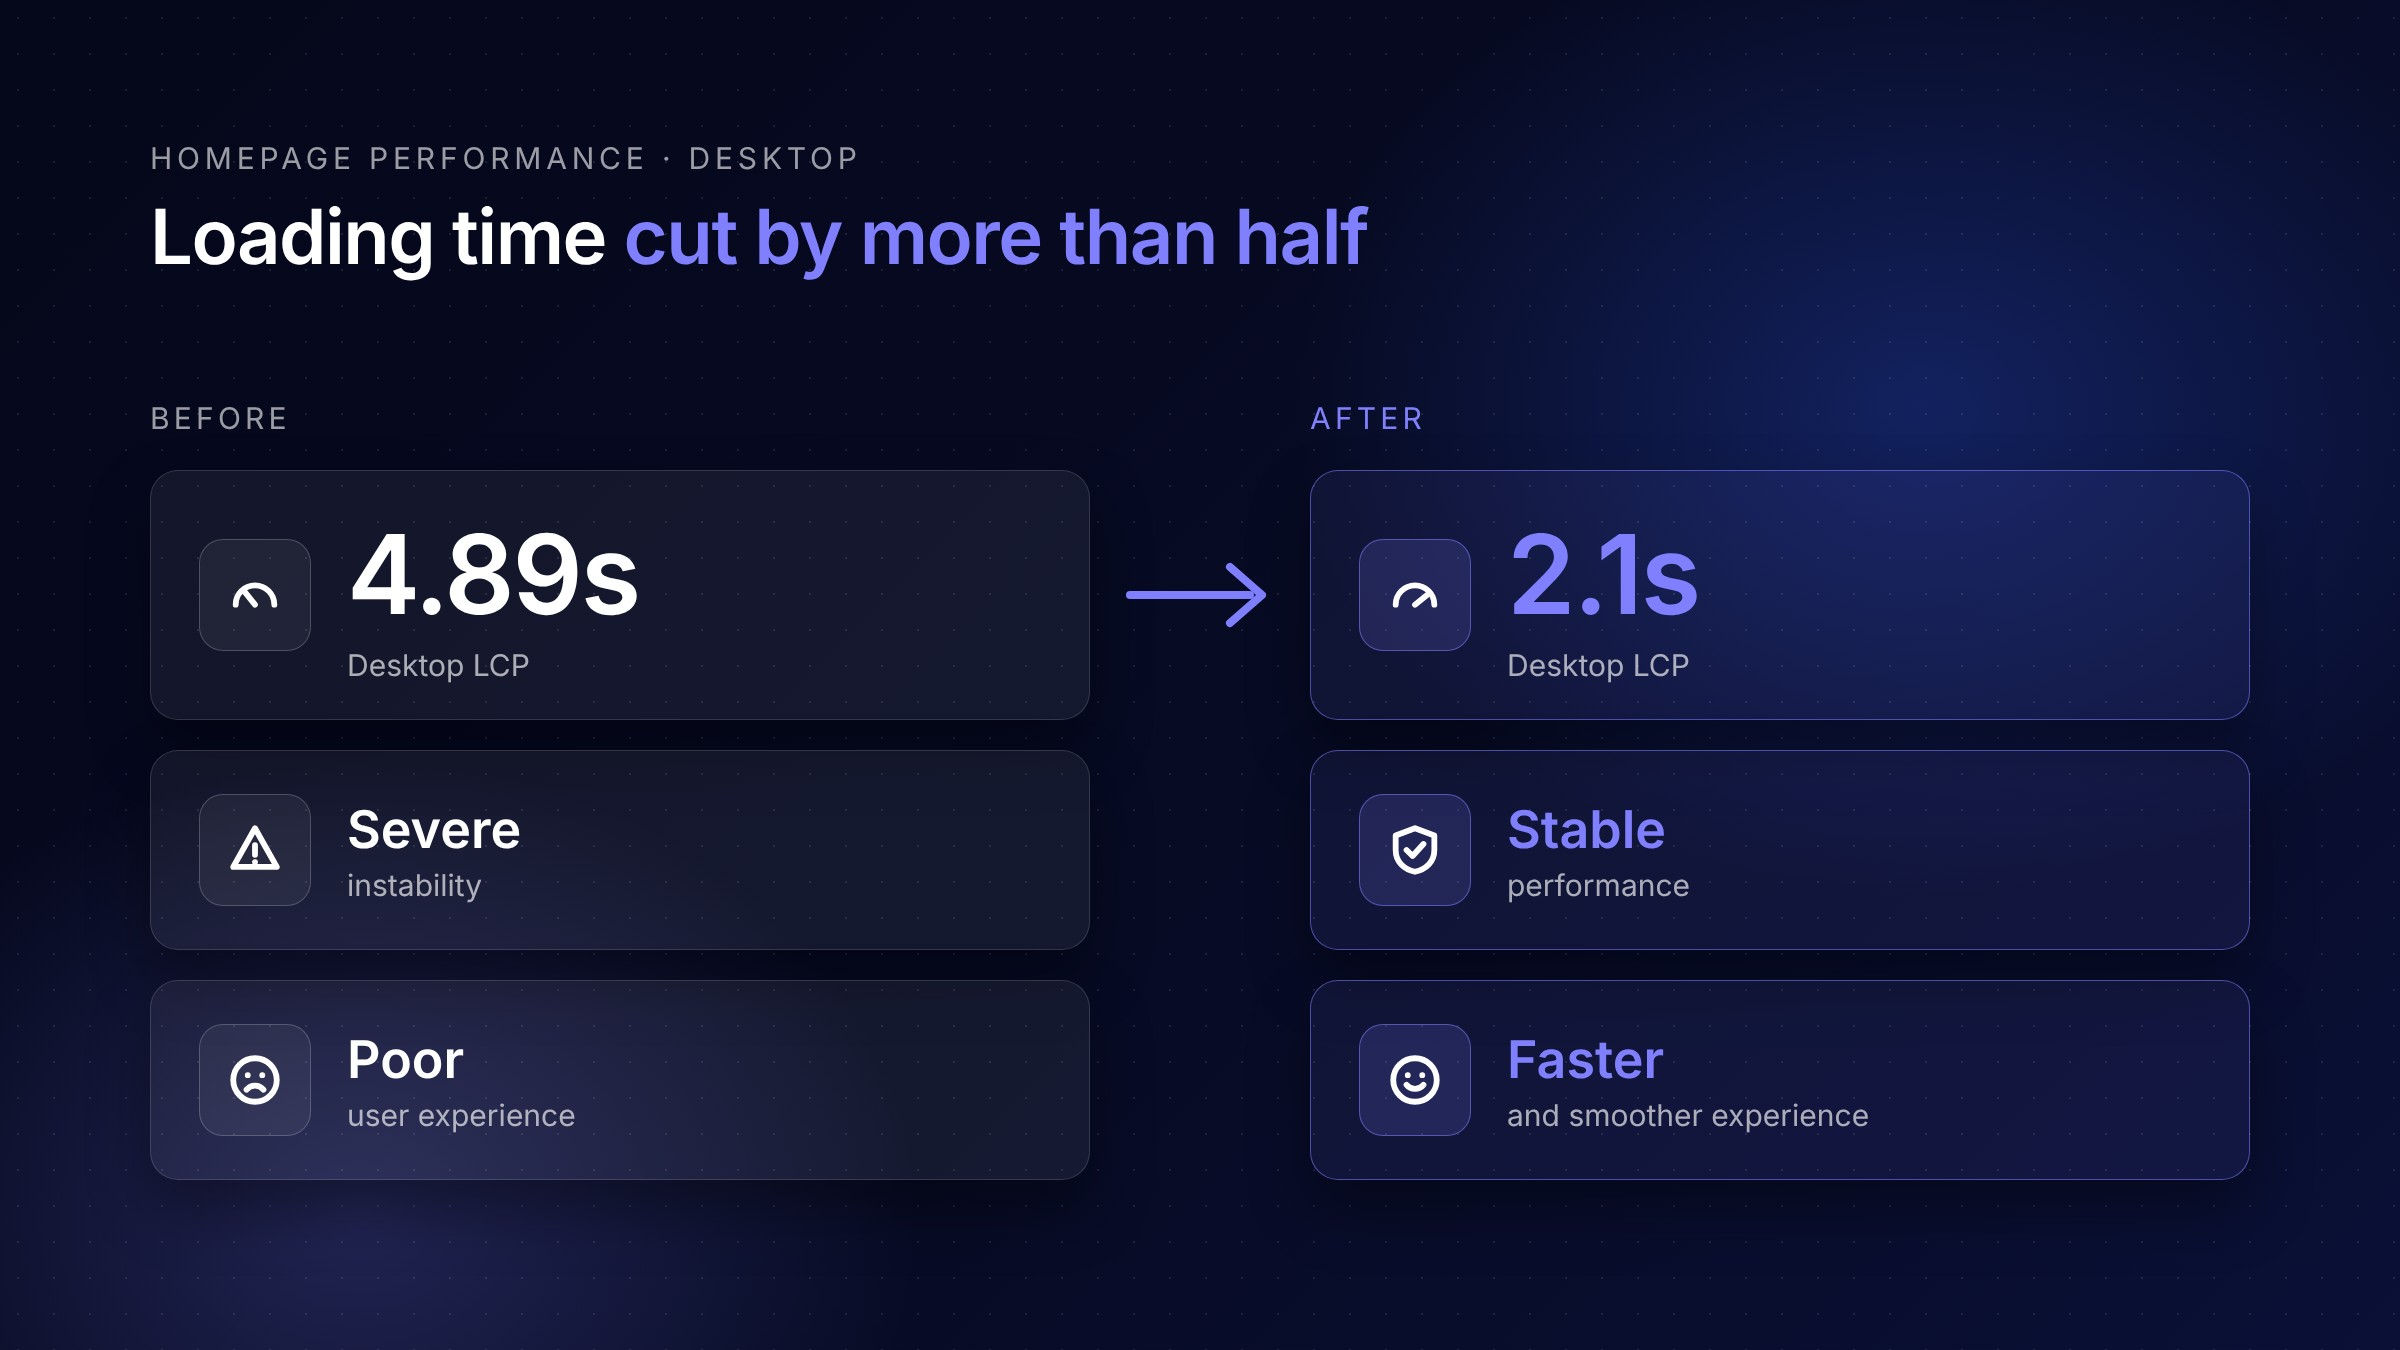
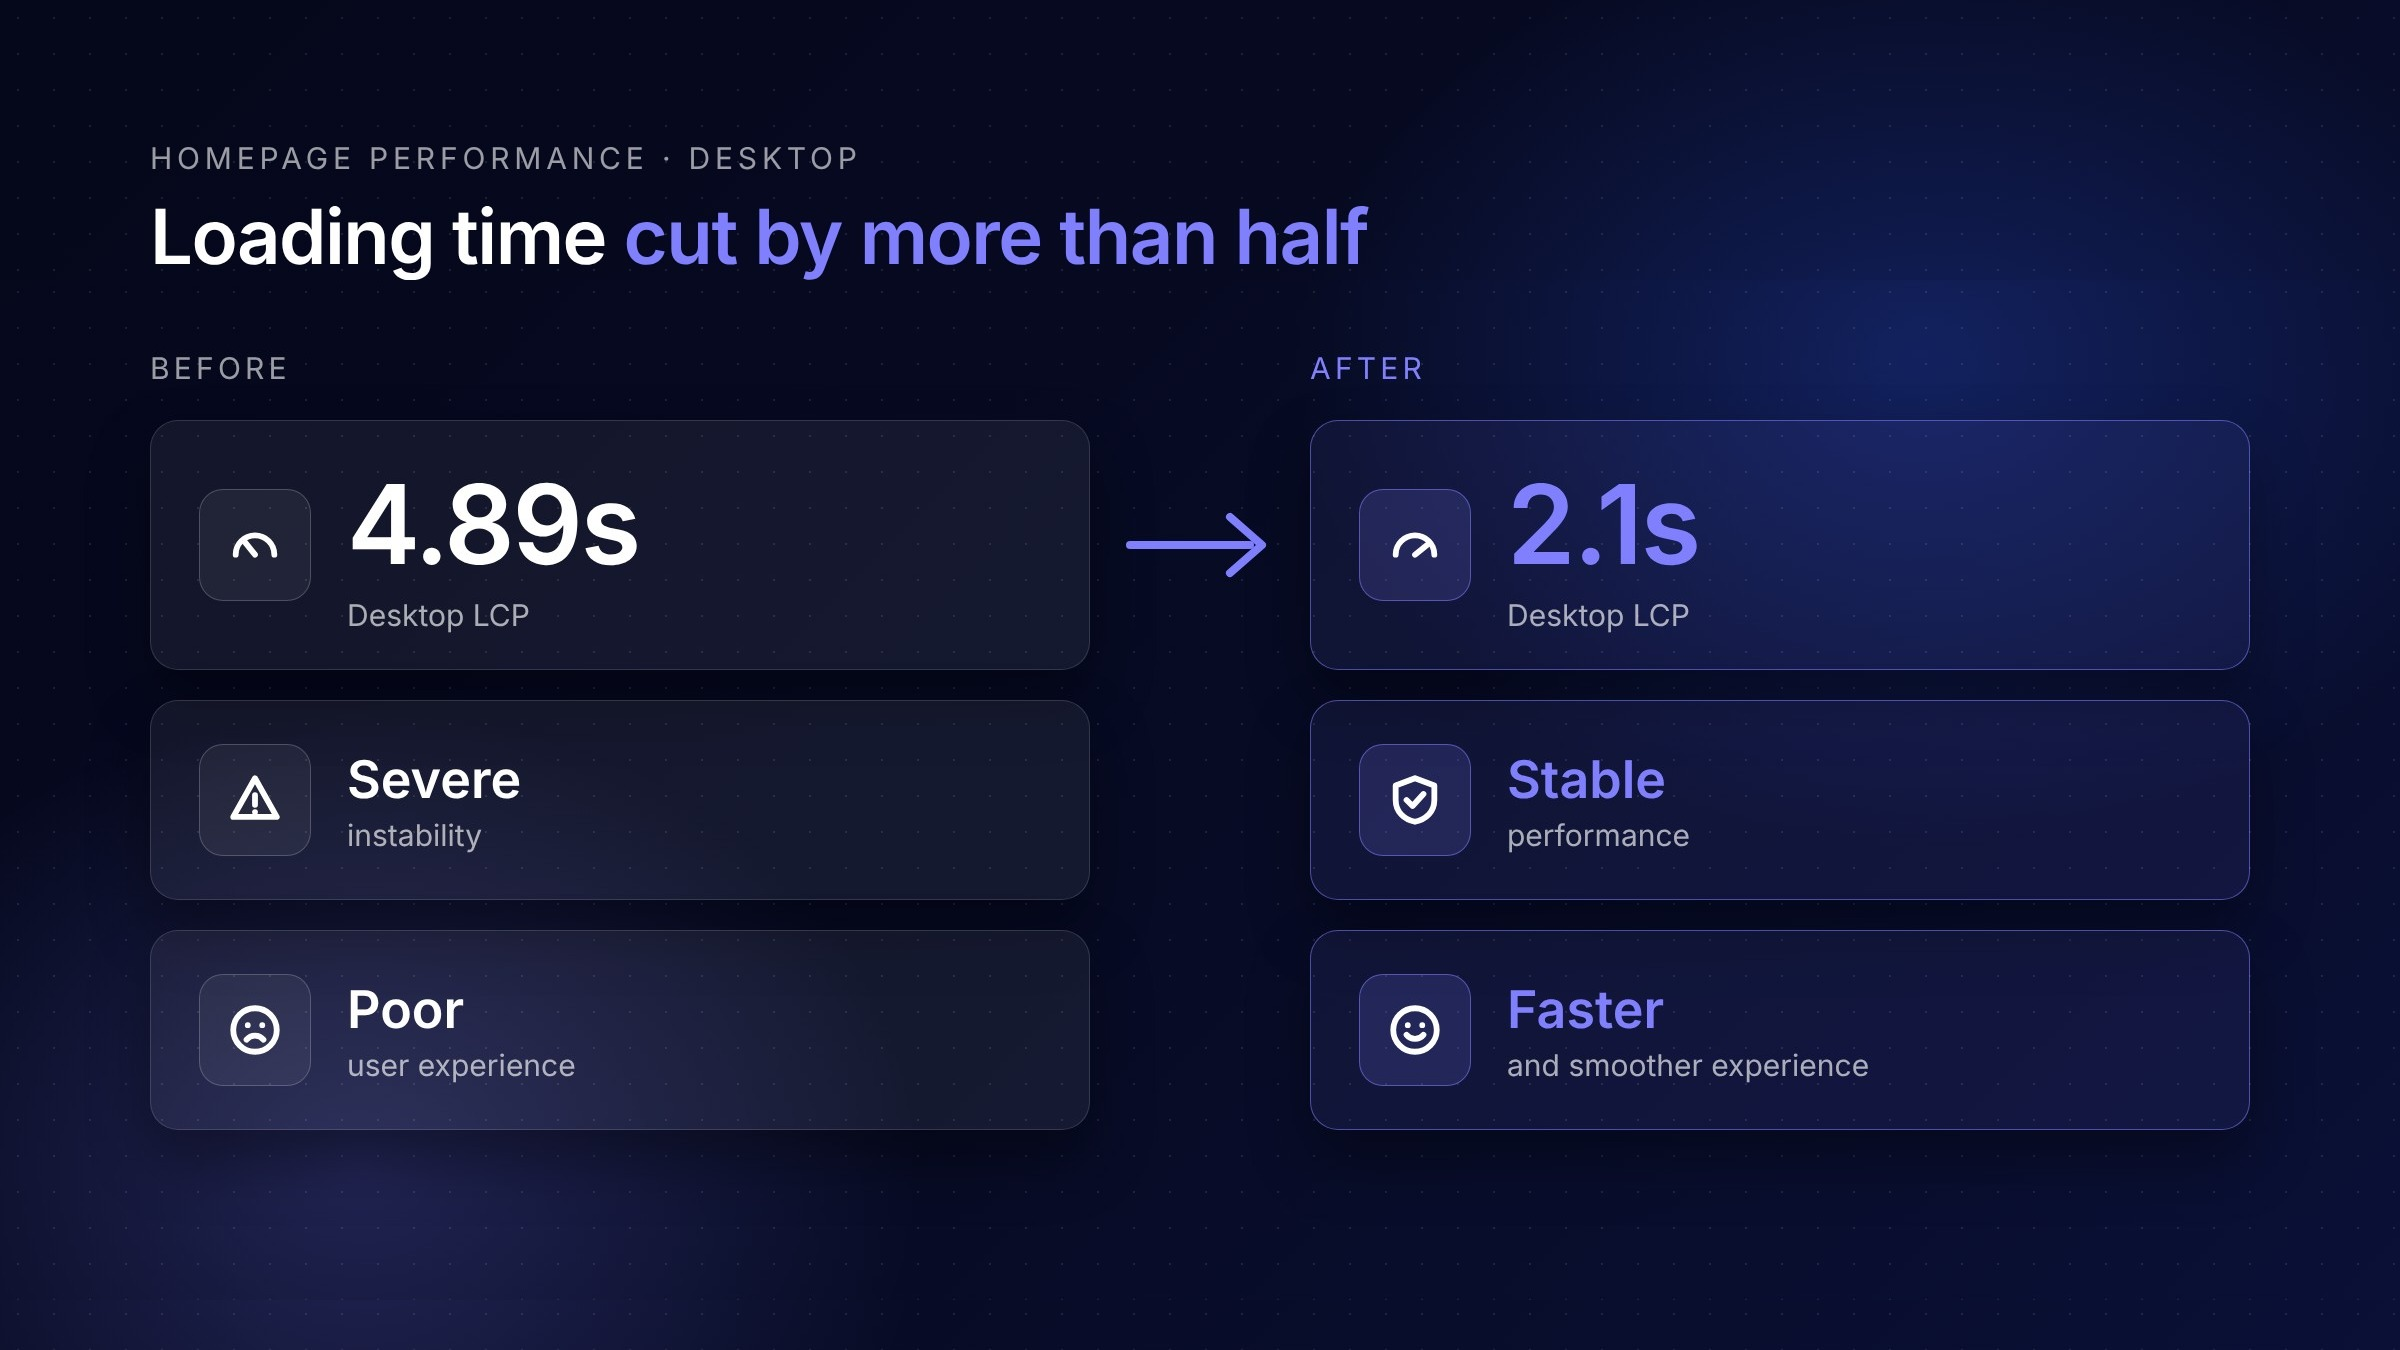
hey

diff --git a/Dremio.html b/Dremio.html
@@ -365,18 +365,6 @@
 											</figcaption>
 										</figure>
 										<!-- End post image -->
-										<br>
-										<!-- Begin post image -->
-										<figure class="tt-blog-post-image">
-											<div class="tt-gallery-image-wrap anim-zoomin">
-											<a href="assets/img/portfolio/single-project/project-8/conversion-optimization-framework.jpg?v=5" class="tt-bpi-link lg-trigger" data-exthumbnail="assets/img/portfolio/single-project/project-8/conversion-optimization-framework.jpg?v=5" data-cursor="View">
-												<img class="tt-lazy" src="assets/img/portfolio/single-project/project-8/conversion-optimization-framework.jpg?v=5" data-src="assets/img/portfolio/single-project/project-8/conversion-optimization-framework.jpg?v=5" alt="Website conversion optimization framework">
-											</a></div>
-											<figcaption class="tt-bpi-caption">
-												Website conversion optimization framework
-											</figcaption>
-										</figure>
-										<!-- End post image -->
 										<br><br>
 										<!-- End post image -->
 									</div> </div>
@@ -612,8 +600,8 @@
 										<!-- Begin post image -->
 										<figure class="tt-blog-post-image">
 											<div class="tt-gallery-image-wrap anim-zoomin">
-											<a href="assets/img/portfolio/single-project/project-8/pricing-insights.jpg?v=4" class="tt-bpi-link lg-trigger" data-exthumbnail="assets/img/portfolio/single-project/project-8/pricing-insights.jpg?v=4" data-cursor="View">
-												<img class="tt-lazy" src="assets/img/portfolio/single-project/project-8/pricing-insights.jpg?v=4" data-src="assets/img/portfolio/single-project/project-8/pricing-insights.jpg?v=4" alt="Pricing journey insights before the redesign">
+											<a href="assets/img/portfolio/single-project/project-8/pricing-insights.jpg?v=5" class="tt-bpi-link lg-trigger" data-exthumbnail="assets/img/portfolio/single-project/project-8/pricing-insights.jpg?v=5" data-cursor="View">
+												<img class="tt-lazy" src="assets/img/portfolio/single-project/project-8/pricing-insights.jpg?v=5" data-src="assets/img/portfolio/single-project/project-8/pricing-insights.jpg?v=5" alt="Pricing journey insights before the redesign">
 											</a></div>
 											<figcaption class="tt-bpi-caption">
 												Pricing journey insights before the redesign
@@ -658,8 +646,8 @@
 										<!-- Begin post image -->
 										<figure class="tt-blog-post-image">
 											<div class="tt-gallery-image-wrap anim-zoomin">
-											<a href="assets/img/portfolio/single-project/project-8/pricing-results.jpg?v=4" class="tt-bpi-link lg-trigger" data-exthumbnail="assets/img/portfolio/single-project/project-8/pricing-results.jpg?v=4" data-cursor="View">
-												<img class="tt-lazy" src="assets/img/portfolio/single-project/project-8/pricing-results.jpg?v=4" data-src="assets/img/portfolio/single-project/project-8/pricing-results.jpg?v=4" alt="Pricing page results">
+											<a href="assets/img/portfolio/single-project/project-8/pricing-results.jpg?v=5" class="tt-bpi-link lg-trigger" data-exthumbnail="assets/img/portfolio/single-project/project-8/pricing-results.jpg?v=5" data-cursor="View">
+												<img class="tt-lazy" src="assets/img/portfolio/single-project/project-8/pricing-results.jpg?v=5" data-src="assets/img/portfolio/single-project/project-8/pricing-results.jpg?v=5" alt="Pricing page results">
 											</a></div>
 											<figcaption class="tt-bpi-caption">
 												Pricing page results
@@ -761,8 +749,8 @@
 										<!-- Begin post image -->
 										<figure class="tt-blog-post-image">
 											<div class="tt-gallery-image-wrap anim-zoomin">
-											<a href="assets/img/portfolio/single-project/project-8/lcp-before-after.jpg?v=5" class="tt-bpi-link lg-trigger" data-exthumbnail="assets/img/portfolio/single-project/project-8/lcp-before-after.jpg?v=5" data-cursor="View">
-												<img class="tt-lazy" src="assets/img/portfolio/single-project/project-8/lcp-before-after.jpg?v=5" data-src="assets/img/portfolio/single-project/project-8/lcp-before-after.jpg?v=5" alt="Desktop LCP before and after">
+											<a href="assets/img/portfolio/single-project/project-8/lcp-before-after.jpg?v=6" class="tt-bpi-link lg-trigger" data-exthumbnail="assets/img/portfolio/single-project/project-8/lcp-before-after.jpg?v=6" data-cursor="View">
+												<img class="tt-lazy" src="assets/img/portfolio/single-project/project-8/lcp-before-after.jpg?v=6" data-src="assets/img/portfolio/single-project/project-8/lcp-before-after.jpg?v=6" alt="Desktop LCP before and after">
 											</a></div>
 											<figcaption class="tt-bpi-caption">
 												Desktop LCP before and after
